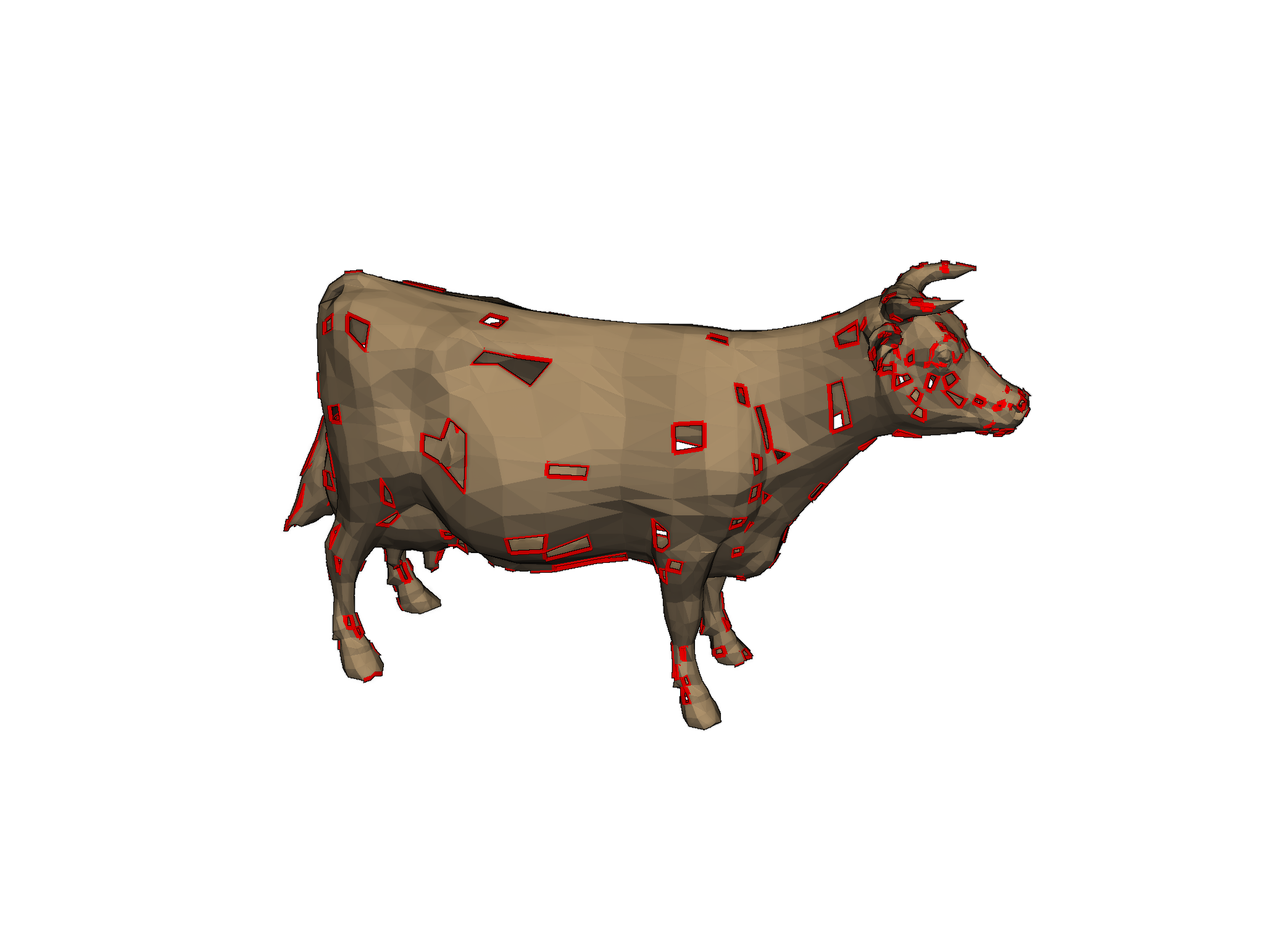
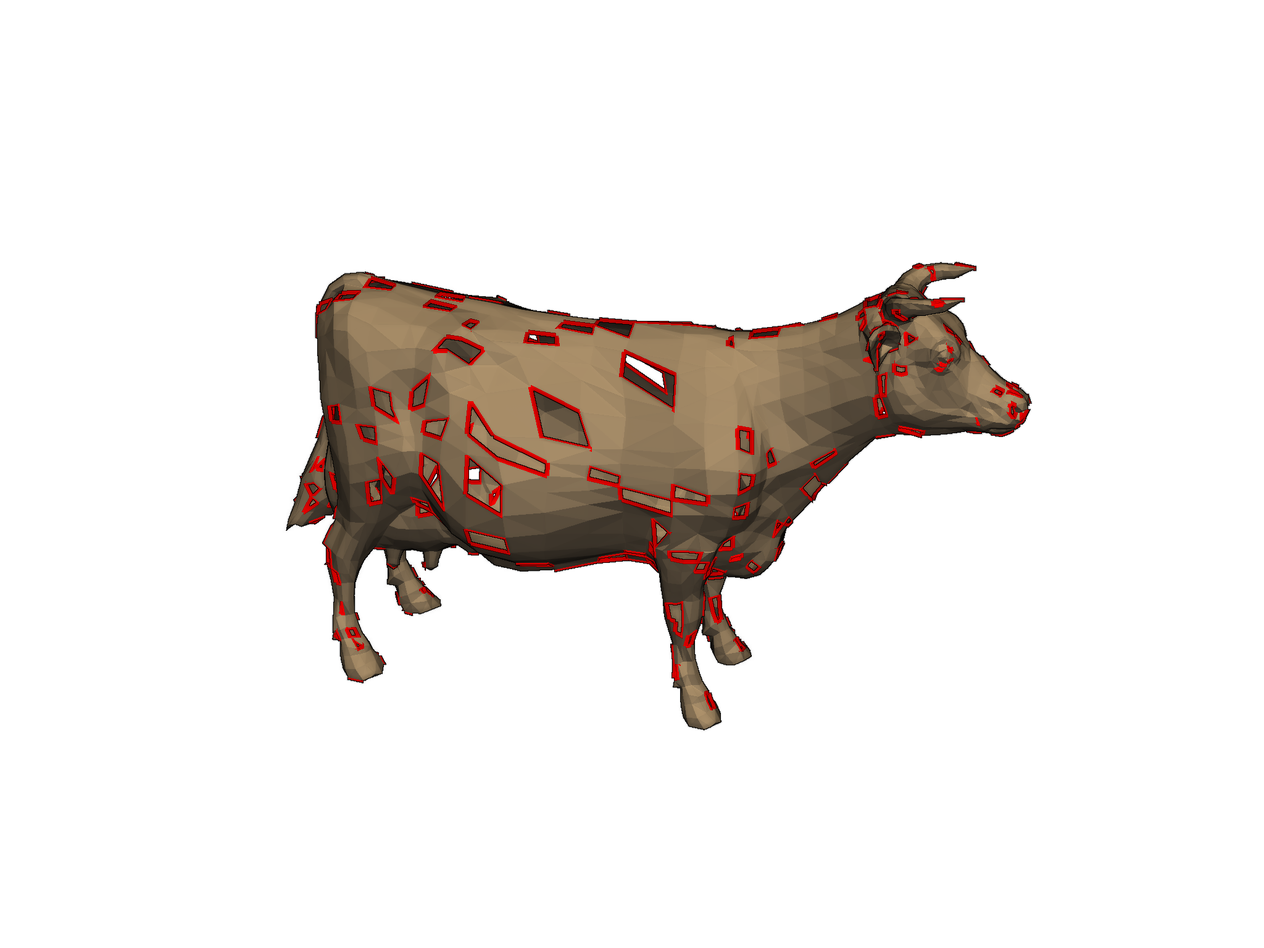
Deploying to gh-pages from @ pyvista/pymeshfix@cc835fff4e25b6cb9644abfb61d63f9dd42fe67d 🚀

diff --git a/searchindex.js b/searchindex.js
@@ -1,1 +1,1 @@
-Search.setIndex({docnames:["_autosummary/_autosummary/pymeshfix.MeshFix.extract_holes","_autosummary/_autosummary/pymeshfix.MeshFix.faces","_autosummary/_autosummary/pymeshfix.MeshFix.load_arrays","_autosummary/_autosummary/pymeshfix.MeshFix.mesh","_autosummary/_autosummary/pymeshfix.MeshFix.plot","_autosummary/_autosummary/pymeshfix.MeshFix.points","_autosummary/_autosummary/pymeshfix.MeshFix.repair","_autosummary/_autosummary/pymeshfix.MeshFix.save","_autosummary/_autosummary/pymeshfix.PyTMesh.boundaries","_autosummary/_autosummary/pymeshfix.PyTMesh.clean","_autosummary/_autosummary/pymeshfix.PyTMesh.fill_small_boundaries","_autosummary/_autosummary/pymeshfix.PyTMesh.join_closest_components","_autosummary/_autosummary/pymeshfix.PyTMesh.load_array","_autosummary/_autosummary/pymeshfix.PyTMesh.load_file","_autosummary/_autosummary/pymeshfix.PyTMesh.n_points","_autosummary/_autosummary/pymeshfix.PyTMesh.remove_smallest_components","_autosummary/_autosummary/pymeshfix.PyTMesh.return_arrays","_autosummary/_autosummary/pymeshfix.PyTMesh.save_file","_autosummary/_autosummary/pymeshfix.PyTMesh.select_intersecting_triangles","_autosummary/pymeshfix.MeshFix","_autosummary/pymeshfix.PyTMesh","_autosummary/pymeshfix.clean_from_arrays","_autosummary/pymeshfix.clean_from_file","api","examples/bunny","examples/cow","examples/index","examples/repair_planar","examples/sg_execution_times","examples/torso","index"],envversion:{"sphinx.domains.c":2,"sphinx.domains.changeset":1,"sphinx.domains.citation":1,"sphinx.domains.cpp":3,"sphinx.domains.index":1,"sphinx.domains.javascript":2,"sphinx.domains.math":2,"sphinx.domains.python":3,"sphinx.domains.rst":2,"sphinx.domains.std":2,sphinx:56},filenames:["_autosummary/_autosummary/pymeshfix.MeshFix.extract_holes.rst","_autosummary/_autosummary/pymeshfix.MeshFix.faces.rst","_autosummary/_autosummary/pymeshfix.MeshFix.load_arrays.rst","_autosummary/_autosummary/pymeshfix.MeshFix.mesh.rst","_autosummary/_autosummary/pymeshfix.MeshFix.plot.rst","_autosummary/_autosummary/pymeshfix.MeshFix.points.rst","_autosummary/_autosummary/pymeshfix.MeshFix.repair.rst","_autosummary/_autosummary/pymeshfix.MeshFix.save.rst","_autosummary/_autosummary/pymeshfix.PyTMesh.boundaries.rst","_autosummary/_autosummary/pymeshfix.PyTMesh.clean.rst","_autosummary/_autosummary/pymeshfix.PyTMesh.fill_small_boundaries.rst","_autosummary/_autosummary/pymeshfix.PyTMesh.join_closest_components.rst","_autosummary/_autosummary/pymeshfix.PyTMesh.load_array.rst","_autosummary/_autosummary/pymeshfix.PyTMesh.load_file.rst","_autosummary/_autosummary/pymeshfix.PyTMesh.n_points.rst","_autosummary/_autosummary/pymeshfix.PyTMesh.remove_smallest_components.rst","_autosummary/_autosummary/pymeshfix.PyTMesh.return_arrays.rst","_autosummary/_autosummary/pymeshfix.PyTMesh.save_file.rst","_autosummary/_autosummary/pymeshfix.PyTMesh.select_intersecting_triangles.rst","_autosummary/pymeshfix.MeshFix.rst","_autosummary/pymeshfix.PyTMesh.rst","_autosummary/pymeshfix.clean_from_arrays.rst","_autosummary/pymeshfix.clean_from_file.rst","api.rst","examples/bunny.rst","examples/cow.rst","examples/index.rst","examples/repair_planar.rst","examples/sg_execution_times.rst","examples/torso.rst","index.rst"],objects:{"pymeshfix.MeshFix":{extract_holes:[0,1,1,""],faces:[1,1,1,""],load_arrays:[2,1,1,""],mesh:[3,2,1,""],plot:[4,1,1,""],points:[5,1,1,""],repair:[6,1,1,""],save:[7,1,1,""]},"pymeshfix.PyTMesh":{boundaries:[8,1,1,""],clean:[9,1,1,""],fill_small_boundaries:[10,1,1,""],join_closest_components:[11,1,1,""],load_array:[12,1,1,""],load_file:[13,1,1,""],n_points:[14,3,1,""],remove_smallest_components:[15,1,1,""],return_arrays:[16,1,1,""],save_file:[17,1,1,""],select_intersecting_triangles:[18,1,1,""]},pymeshfix:{MeshFix:[19,0,1,""],PyTMesh:[20,0,1,""],clean_from_arrays:[21,4,1,""],clean_from_file:[22,4,1,""]}},objnames:{"0":["py","class","Python class"],"1":["py","method","Python method"],"2":["py","property","Python property"],"3":["py","attribute","Python attribute"],"4":["py","function","Python function"]},objtypes:{"0":"py:class","1":"py:method","2":"py:property","3":"py:attribute","4":"py:function"},terms:{"0":[10,13,17,20,24,25,27,28,29],"00":[25,28],"01":29,"010":30,"015":24,"02":[28,29],"03":25,"0416":30,"05":28,"08":28,"083e":29,"0x7f6ee3a3c760":25,"0x7f6ee4de3520":25,"0x7f6ee4de3ac0":29,"1":[13,17,25,27,29,30],"10":[9,20,24,30],"100":27,"1007":30,"1053":29,"107":29,"11":29,"12":[24,29],"12015":29,"122":29,"12448":29,"1251":29,"13":[24,25,29],"15":29,"16":27,"17":29,"18":29,"180":29,"19":28,"2":[13,24,25,27,29,30],"2010":[20,30],"2020":30,"206":29,"209":25,"22":[25,29],"224":[25,28],"26":24,"2721":25,"276":29,"28":24,"2903":25,"2d":2,"3":[2,9,12,19,20,21,25,27,30],"320e":29,"35":25,"4":[25,27],"429":28,"44":25,"442e":29,"446e":25,"5":[24,25,27,29],"5186":25,"5438":25,"56":25,"6":[25,29],"618":[27,28],"624e":29,"637e":25,"680e":29,"696e":25,"701e":25,"720":[24,28],"720e":29,"73":25,"760e":25,"77":25,"8":[24,25,29],"83":29,"867":[28,29],"9":[24,25,29],"93":25,"96":29,"998e":25,"case":[18,30],"class":[19,20,23],"default":[4,6,10,18,21,22,27],"export":3,"float":17,"function":[23,26,30],"import":[13,19,20,21,22,24,25,27,29,30],"new":0,"public":[23,30],"return":[3,9,10,16,17,18,20,21,27,30],"true":[4,6,7,9,10,17,18,21,22,24,25,27,29],"while":30,A:[17,20,25,30],FOR:30,If:[10,17,20,27,30],In:30,It:27,No:30,One:30,Or:30,The:[9,12,13,17,18,20,23,26,30],There:[20,30],These:[23,27],To:30,_:27,_meshfix:[13,20,27],abov:30,absolut:29,access:[3,6,30],add:[10,25,27],add_mesh:[24,25,27,29],addit:4,aforement:9,again:[20,30],agreement:30,algorithm:27,all:[6,10,18,21,27,30],allow:30,along:[27,29],altern:30,an:[7,9,20,22],ani:30,appi:29,approach:[20,30],approxim:17,ar:[6,9,10,13,17,18,20,23,27,30],arg:19,argument:4,arrai:[2,6,12,16,18,19,20,21,25,29,30],ascii:[7,17],assum:30,attempt:[6,11,20,21,22,30],atten:[20,30],attribut:[19,20],author:30,automat:[12,13],award:30,back:27,back_approx:17,base:30,basic_tmesh:20,been:30,befor:[6,11,21],begin:[6,21],bell:30,better:30,between:17,binari:7,bool:[4,6,21,22],both:2,bound:[25,29,30],boundari:[0,4,10,20,27,30],bring:30,bunni:[26,28],c:[20,27,30],cad:30,call:9,camera:[24,25],camera_posit:[24,25,29],can:[7,30],cannot:30,cast:25,cd:30,cell:[25,29],charact:7,check:[20,30],cite:[20,30],clean:[17,19,20,21,22,30],clean_fac:21,clean_from_arrai:30,clean_from_fil:30,clean_point:21,click:[24,25,27,29],clone:30,close:30,cnr:30,coars:30,code:[24,25,27,29],coher:17,coincid:18,color:[24,25,27,29],com:30,commerci:30,common:18,commun:30,complet:9,complex:[18,29],compon:[6,11,15,20,21,22,29,30],comput:[20,30],connect:[12,13],contain:[2,12],contract:30,control:30,conveni:23,convert:27,cool:30,coordin:17,copi:30,correct:30,could:[9,30],cow:[19,26,28],cpo:[24,25,29],cpos_ear:29,creat:[19,20,30],current:13,cython:[20,23,30],d:[20,30],data:[2,17],debug:6,deduc:17,defect:30,defin:24,degener:[9,30],degeneraci:[9,24,25,29],demonstr:26,densiti:[10,27],depth:[18,24,25,27,29],design:30,detail:30,detect:27,determin:18,digit:[20,30],directli:30,disabl:6,disk:[7,22],distribut:30,doe:23,doi:30,don:30,download:[24,25,27,29],download_bunni:24,download_cow:[19,25],download_torso:29,drive:30,dtype:27,dual:30,e:30,each:[2,9],ear:29,eas:30,edg:[10,18,27],either:[19,22,27,30],element:30,emphas:29,empti:27,enabl:6,enable_eye_dome_light:[24,25,27,29],ensur:29,error:17,even:[18,30],eventu:9,exampl:[3,4,6,9,10,11,12,13,16,17,18,19,20,21,22,24,25,27,28,29],execut:28,expos:23,extens:[7,17,23],extra:27,extract:[0,24,29],extract_geometri:25,extract_hol:[24,25,27,29],eye_dome_light:29,f:[2,12,20,21,30],face:[2,6,9,12,16,18,19,21,27,30],fail:30,fals:[6,21,22,27],faster:7,fclean:[20,30],featur:30,file:[7,13,17,20,22,28],filenam:[7,17,22],filetyp:7,fill:[10,20,26,28,30],fill_small_boundari:[20,27,30],filter:29,fit:30,fix:[24,25,29],flaw:30,float64:30,follow:[7,13,17,20,26,30],format:[13,17,20,30],foundat:30,free:30,from:[2,6,7,12,13,17,19,20,21,24,25,27,29,30],ftype:7,full:[24,25,27,29],g:30,galleri:[24,25,26,27,29],ge:30,gener:[24,25,26,27,29,30],get:8,git:30,github:30,gnu:30,gpl:30,ha:30,hard:30,have:[10,27,30],help:[4,24,25,27,29],here:[24,25,27,29,30],hole:[0,10,20,24,25,26,28,29,30],holei:[26,28],holy_cow:[19,25],hope:30,how:30,http:30,idea:30,imati:[13,17,30],impli:30,includ:27,indic:[1,18,19],infer:7,infil:[20,22,30],inmesh:22,inner:[10,27],inner_loop:[9,20,30],inplac:6,input:[22,30],instanc:20,int32:30,interfac:[20,27],intersect:[9,18,20,24,25,29,30],inventor:13,invert:25,ipynb:[24,25,27,29],isol:[6,21],iter:9,iv:[13,17],join:[6,11,20,21,22,30],join_closest_compon:[20,30],joincomp:[6,21,22],jul:30,jupyt:[24,25,27,29],justprop:18,keep:18,keyword:4,kwarg:4,largest:[6,21,27],last:30,later:30,left:30,less:10,level:[23,27],leverag:30,librari:30,licens:30,lightweight:[20,30],limit:[17,27],line:0,line_width:[24,25,27,29],ll:30,load:[2,12,13,20,21,30],load_arrai:[20,30],load_fil:27,loader:[12,13],loadfil:[13,20,30],locat:25,loop:8,lower:[23,27],m:[20,30],mai:[7,30],main:30,manifold:[12,13,22],marco:[20,30],max_it:[9,20,30],mb:28,memori:[17,30],merchant:30,mesh:[0,1,2,4,5,6,7,8,9,11,12,13,14,16,17,18,19,20,21,22,24,25,27,29,30],meshfix:[20,23,24,25,27,29,30],method:[7,9,19,20,23],mf:[19,24,25,29],mfix:[4,27],might:30,minut:[24,25,27,29],miss:30,model:30,modifi:30,modul:30,more:30,most:[18,27],much:7,must:[22,30],my_mesh:3,n:[2,12,19,21,25,29],n_cell:25,nativ:30,nbe:[10,27],ndarrai:[2,12,16,18,19,21],nearbi:[6,11,20,21,22,30],necessari:[17,30],need:29,nice:25,non:17,note:[6,7,27],notebook:[24,25,27,29],np:[2,12,19,21,25,27,30],npy:21,number:[8,10,14,18,27],numpi:[2,12,16,18,20,21,25,27,30],obj:13,object:[13,17,19,20,27,30],occur:17,occurr:30,off:[13,17,22],one:[7,17],onli:[9,27],open:[6,11,13,21,22],openinventor:17,option:[4,6,7,21,22,30],org:30,orig_mesh:27,origin:27,other:[18,30],out:[24,25,27,29,30],outfil:[17,20,22,30],outlin:[24,25,27,29],outmesh:22,output:[20,22,27,30],over:30,overridden:7,p:[24,25,29],paper:[20,30],paramet:[2,4,6,7,9,12,18,19,21,22],part:[18,29,30],partial:[26,28],particular:30,patch:[10,24,25,27,29],percept:[24,25,27,29],perform:[6,21,22,30],perfrom:29,pip:30,planar:27,planar_mesh:27,pleas:[20,30],plot:[3,24,25,27,29,30],plot_boundari:27,plotter:[24,25,27,29],ply:[3,7,13,17,22,30],point:[2,6,12,14,16,17,19,21,25,27,29],polydata:[19,25,27,29],polygon:[20,30],polyhedr:29,polyhedron:30,portabl:30,posit:24,precis:17,present:30,print:[6,20,21,22,25,29,30],procedur:[21,22],process:[6,21],produc:[9,30],program:30,progress:[21,22],proper:30,properti:3,publish:30,pure:23,purpos:[20,30],pv:[24,25,27,29],py:[24,25,27,28,29],pymeshfix:[24,25,27,29],pypi:30,python:[23,24,25,27,29,30],pytmesh:[23,27,30],pyvista:[0,4,7,19,22,23,24,25,26,27,29,30],r:[24,25,27,29],rand:25,random:25,raw:30,reach:30,read:[22,27,30],readi:24,reason:30,reconstruct:[12,13],recurs:18,redistribut:30,refer:30,refin:[10,27],reflect:17,regard:18,region:30,remov:[6,9,15,20,21,27,29,30],remove_smallest_compon:[6,21],render:[24,25,27],repair:[11,20,21,22,24,25,27,29,30],repair_planar:[27,28],repres:30,represent:17,reproduc:[10,27],requir:[23,30],research:[20,30],reserv:30,reson:18,result:[25,30],return_arrai:[20,27,30],right:30,run:[11,24,25,27,29,30],s00371:30,s:[6,7,27,30],safe:18,same:30,sampl:[10,27],save:[3,17,30],save_fil:[20,30],script:[24,25,27,29],second:[24,25,27,29],see:[4,30],seem:27,select:18,self:[9,20,30],set:[17,30],shape:27,should:[2,11,17,30],show:[4,24,25,27,29],show_edg:29,show_hol:4,simpl:7,simpli:29,singl:[22,27,30],singular:30,size:12,small:[10,29],smallest:15,so:29,softwar:30,solid:30,some:[27,30],sort:30,sourc:[24,25,27,29,30],space:18,specif:30,specifi:7,speed:30,sphinx:[24,25,26,27,29],sphinx_gallery_thumbnail_numb:[24,25,27,29],springer:[20,30],stdout:[21,22],still:30,stl:[7,13,22],str:[7,22],string:7,strongdegeneracyremov:9,strongintersectionremov:9,subdivis:18,subsimplex:18,subtl:29,support:13,surfac:[3,7,19,30],surround:[10,27],t:30,take:30,term:30,tessel:30,test:30,tetrahedr:19,than:[7,10],thei:[18,30],them:[6,9],therefor:30,therein:30,thi:[0,7,17,27,29,30],threchold:18,three:[2,7],threshold:25,thu:30,tight:29,time:[9,24,25,27,29],tin:[9,10,11,12,13,16,17,18,20,30],tmesh:[20,27,30],torso:[26,28],total:[24,25,27,28,29],tri:[13,17],triangl:[8,12,13,18,19,27,29,30],triangul:[25,29],triangular:2,tris_per_cel:18,two:[9,23],txt:30,type:[7,18],typic:30,unavail:30,under:[18,30],underli:3,understand:30,unless:7,unmodifi:30,unproperli:18,up:9,updat:[6,30],us:[6,9,17,18,19,20,22,23,26,27,30],user:30,v2:20,v:[2,12,20,21,30],valu:[17,18],vclean:[20,30],ver:[13,17],verbos:[6,21,22,24,25,27,29],version:30,vert:27,vertex:[2,6,16,17,19,21,30],vertic:[10,12,18,21,27],vertici:12,view:30,visual:[20,30],vrml:[13,17],vtk:[7,22,27],vtkinterfac:30,wa:29,want:30,warranti:30,water:29,watertight:30,when:17,where:[29,30],wherebi:27,which:23,whistl:30,win:30,wish:30,with_vtk:30,within:30,without:[9,22,23],wonder:30,work:30,wrapper:[7,30],write:[7,22,30],written:7,wrl:[13,17],www:30,x:[2,12,19,21,25,29],xyz:2,y:[25,29],you:30,your:30,z:[25,29],zero:17},titles:["pymeshfix.MeshFix.extract_holes","pymeshfix.MeshFix.faces","pymeshfix.MeshFix.load_arrays","pymeshfix.MeshFix.mesh","pymeshfix.MeshFix.plot","pymeshfix.MeshFix.points","pymeshfix.MeshFix.repair","pymeshfix.MeshFix.save","pymeshfix.PyTMesh.boundaries","pymeshfix.PyTMesh.clean","pymeshfix.PyTMesh.fill_small_boundaries","pymeshfix.PyTMesh.join_closest_components","pymeshfix.PyTMesh.load_array","pymeshfix.PyTMesh.load_file","pymeshfix.PyTMesh.n_points","pymeshfix.PyTMesh.remove_smallest_components","pymeshfix.PyTMesh.return_arrays","pymeshfix.PyTMesh.save_file","pymeshfix.PyTMesh.select_intersecting_triangles","pymeshfix.MeshFix","pymeshfix.PyTMesh","pymeshfix.clean_from_arrays","pymeshfix.clean_from_file","API Reference","Bunny","Holey Cow","pymeshfix Examples","Partial Fill Holes","Computation times","Torso","PyMeshFix"],titleterms:{algorithm:30,api:23,boundari:8,bunni:24,citat:30,clean:9,clean_from_arrai:21,clean_from_fil:22,complet:30,comput:28,copyright:30,cow:25,depend:30,easi:30,exampl:[26,30],extract_hol:0,face:1,fill:27,fill_small_boundari:10,hole:27,holei:25,instal:30,join_closest_compon:11,load_arrai:[2,12],load_fil:13,mesh:3,meshfix:[0,1,2,3,4,5,6,7,19],n_point:14,partial:27,plot:4,point:5,polici:30,pymeshfix:[0,1,2,3,4,5,6,7,8,9,10,11,12,13,14,15,16,17,18,19,20,21,22,26,30],pytmesh:[8,9,10,11,12,13,14,15,16,17,18,20],refer:23,remove_smallest_compon:15,repair:6,return_arrai:16,save:7,save_fil:17,select_intersecting_triangl:18,time:28,torso:29,vtk:30,without:30}})
+Search.setIndex({docnames:["_autosummary/_autosummary/pymeshfix.MeshFix.extract_holes","_autosummary/_autosummary/pymeshfix.MeshFix.faces","_autosummary/_autosummary/pymeshfix.MeshFix.load_arrays","_autosummary/_autosummary/pymeshfix.MeshFix.mesh","_autosummary/_autosummary/pymeshfix.MeshFix.plot","_autosummary/_autosummary/pymeshfix.MeshFix.points","_autosummary/_autosummary/pymeshfix.MeshFix.repair","_autosummary/_autosummary/pymeshfix.MeshFix.save","_autosummary/_autosummary/pymeshfix.PyTMesh.boundaries","_autosummary/_autosummary/pymeshfix.PyTMesh.clean","_autosummary/_autosummary/pymeshfix.PyTMesh.fill_small_boundaries","_autosummary/_autosummary/pymeshfix.PyTMesh.join_closest_components","_autosummary/_autosummary/pymeshfix.PyTMesh.load_array","_autosummary/_autosummary/pymeshfix.PyTMesh.load_file","_autosummary/_autosummary/pymeshfix.PyTMesh.n_points","_autosummary/_autosummary/pymeshfix.PyTMesh.remove_smallest_components","_autosummary/_autosummary/pymeshfix.PyTMesh.return_arrays","_autosummary/_autosummary/pymeshfix.PyTMesh.save_file","_autosummary/_autosummary/pymeshfix.PyTMesh.select_intersecting_triangles","_autosummary/pymeshfix.MeshFix","_autosummary/pymeshfix.PyTMesh","_autosummary/pymeshfix.clean_from_arrays","_autosummary/pymeshfix.clean_from_file","api","examples/bunny","examples/cow","examples/index","examples/repair_planar","examples/sg_execution_times","examples/torso","index"],envversion:{"sphinx.domains.c":2,"sphinx.domains.changeset":1,"sphinx.domains.citation":1,"sphinx.domains.cpp":3,"sphinx.domains.index":1,"sphinx.domains.javascript":2,"sphinx.domains.math":2,"sphinx.domains.python":3,"sphinx.domains.rst":2,"sphinx.domains.std":2,sphinx:56},filenames:["_autosummary/_autosummary/pymeshfix.MeshFix.extract_holes.rst","_autosummary/_autosummary/pymeshfix.MeshFix.faces.rst","_autosummary/_autosummary/pymeshfix.MeshFix.load_arrays.rst","_autosummary/_autosummary/pymeshfix.MeshFix.mesh.rst","_autosummary/_autosummary/pymeshfix.MeshFix.plot.rst","_autosummary/_autosummary/pymeshfix.MeshFix.points.rst","_autosummary/_autosummary/pymeshfix.MeshFix.repair.rst","_autosummary/_autosummary/pymeshfix.MeshFix.save.rst","_autosummary/_autosummary/pymeshfix.PyTMesh.boundaries.rst","_autosummary/_autosummary/pymeshfix.PyTMesh.clean.rst","_autosummary/_autosummary/pymeshfix.PyTMesh.fill_small_boundaries.rst","_autosummary/_autosummary/pymeshfix.PyTMesh.join_closest_components.rst","_autosummary/_autosummary/pymeshfix.PyTMesh.load_array.rst","_autosummary/_autosummary/pymeshfix.PyTMesh.load_file.rst","_autosummary/_autosummary/pymeshfix.PyTMesh.n_points.rst","_autosummary/_autosummary/pymeshfix.PyTMesh.remove_smallest_components.rst","_autosummary/_autosummary/pymeshfix.PyTMesh.return_arrays.rst","_autosummary/_autosummary/pymeshfix.PyTMesh.save_file.rst","_autosummary/_autosummary/pymeshfix.PyTMesh.select_intersecting_triangles.rst","_autosummary/pymeshfix.MeshFix.rst","_autosummary/pymeshfix.PyTMesh.rst","_autosummary/pymeshfix.clean_from_arrays.rst","_autosummary/pymeshfix.clean_from_file.rst","api.rst","examples/bunny.rst","examples/cow.rst","examples/index.rst","examples/repair_planar.rst","examples/sg_execution_times.rst","examples/torso.rst","index.rst"],objects:{"pymeshfix.MeshFix":{extract_holes:[0,1,1,""],faces:[1,1,1,""],load_arrays:[2,1,1,""],mesh:[3,2,1,""],plot:[4,1,1,""],points:[5,1,1,""],repair:[6,1,1,""],save:[7,1,1,""]},"pymeshfix.PyTMesh":{boundaries:[8,1,1,""],clean:[9,1,1,""],fill_small_boundaries:[10,1,1,""],join_closest_components:[11,1,1,""],load_array:[12,1,1,""],load_file:[13,1,1,""],n_points:[14,3,1,""],remove_smallest_components:[15,1,1,""],return_arrays:[16,1,1,""],save_file:[17,1,1,""],select_intersecting_triangles:[18,1,1,""]},pymeshfix:{MeshFix:[19,0,1,""],PyTMesh:[20,0,1,""],clean_from_arrays:[21,4,1,""],clean_from_file:[22,4,1,""]}},objnames:{"0":["py","class","Python class"],"1":["py","method","Python method"],"2":["py","property","Python property"],"3":["py","attribute","Python attribute"],"4":["py","function","Python function"]},objtypes:{"0":"py:class","1":"py:method","2":"py:property","3":"py:attribute","4":"py:function"},terms:{"0":[10,13,17,20,24,25,27,28,29],"00":[25,28],"01":29,"010":30,"015":24,"02":[28,29],"03":25,"0416":30,"05":28,"083e":29,"0x7f39f6e597c0":25,"0x7f39f81ff580":25,"0x7f39f81ff700":29,"1":[13,17,25,27,29,30],"10":[9,20,24,30],"100":27,"1007":30,"1053":29,"107":29,"11":29,"116":[25,28],"12":[24,29],"12015":29,"122":29,"12448":29,"1251":29,"13":[24,25,29],"15":[28,29],"16":27,"17":29,"18":29,"180":29,"2":[13,24,25,27,29,30],"200":25,"2010":[20,30],"2020":30,"206":29,"22":[25,29],"26":24,"2727":25,"276":29,"28":24,"2903":25,"2d":2,"3":[2,9,12,19,20,21,25,27,30],"320e":29,"35":25,"4":[25,27],"421":[28,29],"44":25,"442e":29,"446e":25,"499":[27,28],"5":[24,25,27,29],"5209":25,"5450":25,"56":25,"583":[24,28],"6":[25,29],"619":28,"624e":29,"637e":25,"680e":29,"696e":25,"701e":25,"720e":29,"73":25,"760e":25,"77":25,"8":[24,25,29],"83":29,"9":[24,25,29],"93":25,"96":29,"998e":25,"case":[18,30],"class":[19,20,23],"default":[4,6,10,18,21,22,27],"export":3,"float":17,"function":[23,26,30],"import":[13,19,20,21,22,24,25,27,29,30],"new":0,"public":[23,30],"return":[3,9,10,16,17,18,20,21,27,30],"true":[4,6,7,9,10,17,18,21,22,24,25,27,29],"while":30,A:[17,20,25,30],FOR:30,If:[10,17,20,27,30],In:30,It:27,No:30,One:30,Or:30,The:[9,12,13,17,18,20,23,26,30],There:[20,30],These:[23,27],To:30,_:27,_meshfix:[13,20,27],abov:30,absolut:29,access:[3,6,30],add:[10,25,27],add_mesh:[24,25,27,29],addit:4,aforement:9,again:[20,30],agreement:30,algorithm:27,all:[6,10,18,21,27,30],allow:30,along:[27,29],altern:30,an:[7,9,20,22],ani:30,appi:29,approach:[20,30],approxim:17,ar:[6,9,10,13,17,18,20,23,27,30],arg:19,argument:4,arrai:[2,6,12,16,18,19,20,21,25,29,30],ascii:[7,17],assum:30,attempt:[6,11,20,21,22,30],atten:[20,30],attribut:[19,20],author:30,automat:[12,13],award:30,back:27,back_approx:17,base:30,basic_tmesh:20,been:30,befor:[6,11,21],begin:[6,21],bell:30,better:30,between:17,binari:7,bool:[4,6,21,22],both:2,bound:[25,29,30],boundari:[0,4,10,20,27,30],bring:30,bunni:[26,28],c:[20,27,30],cad:30,call:9,camera:[24,25],camera_posit:[24,25,29],can:[7,30],cannot:30,cast:25,cd:30,cell:[25,29],charact:7,check:[20,30],cite:[20,30],clean:[17,19,20,21,22,30],clean_fac:21,clean_from_arrai:30,clean_from_fil:30,clean_point:21,click:[24,25,27,29],clone:30,close:30,cnr:30,coars:30,code:[24,25,27,29],coher:17,coincid:18,color:[24,25,27,29],com:30,commerci:30,common:18,commun:30,complet:9,complex:[18,29],compon:[6,11,15,20,21,22,25,29,30],comput:[20,30],connect:[12,13],contain:[2,12],contract:30,control:30,conveni:23,convert:27,cool:30,coordin:17,copi:30,correct:30,could:[9,30],cow:[19,26,28],cpo:[24,25,29],cpos_ear:29,creat:[19,20,30],current:13,cython:[20,23,30],d:[20,30],data:[2,17],debug:6,deduc:17,defect:30,defin:24,degener:[9,30],degeneraci:[9,24,25,29],demonstr:26,densiti:[10,27],depth:[18,24,25,27,29],design:30,detail:30,detect:27,determin:18,digit:[20,30],directli:30,disabl:6,disk:[7,22],distribut:30,doe:23,doi:30,don:30,download:[24,25,27,29],download_bunni:24,download_cow:[19,25],download_torso:29,drive:30,dtype:27,dual:30,e:30,each:[2,9],ear:29,eas:30,edg:[10,18,27],either:[19,22,27,30],element:30,emphas:29,empti:27,enabl:6,enable_eye_dome_light:[24,25,27,29],ensur:29,error:17,even:[18,30],eventu:9,exampl:[3,4,6,9,10,11,12,13,16,17,18,19,20,21,22,24,25,27,28,29],execut:28,expos:23,extens:[7,17,23],extra:27,extract:[0,24,29],extract_geometri:25,extract_hol:[24,25,27,29],eye_dome_light:29,f:[2,12,20,21,30],face:[2,6,9,12,16,18,19,21,27,30],fail:30,fals:[6,21,22,27],faster:7,fclean:[20,30],featur:30,file:[7,13,17,20,22,28],filenam:[7,17,22],filetyp:7,fill:[10,20,26,28,30],fill_small_boundari:[20,27,30],filter:29,fit:30,fix:[24,25,29],flaw:30,float64:30,follow:[7,13,17,20,26,30],format:[13,17,20,30],foundat:30,free:30,from:[2,6,7,12,13,17,19,20,21,24,25,27,29,30],ftype:7,full:[24,25,27,29],g:30,galleri:[24,25,26,27,29],ge:30,gener:[24,25,26,27,29,30],get:8,git:30,github:30,gnu:30,gpl:30,ha:30,hard:30,have:[10,27,30],help:[4,24,25,27,29],here:[24,25,27,29,30],hole:[0,10,20,24,25,26,28,29,30],holei:[26,28],holy_cow:[19,25],hope:30,how:30,http:30,idea:30,imati:[13,17,30],impli:30,includ:27,indic:[1,18,19],infer:7,infil:[20,22,30],inmesh:22,inner:[10,27],inner_loop:[9,20,30],inplac:6,input:[22,30],instanc:20,int32:30,interfac:[20,27],intersect:[9,18,20,24,25,29,30],inventor:13,invert:25,ipynb:[24,25,27,29],isol:[6,21],iter:9,iv:[13,17],join:[6,11,20,21,22,30],join_closest_compon:[20,30],joincomp:[6,21,22],jul:30,jupyt:[24,25,27,29],justprop:18,keep:18,keyword:4,kwarg:4,largest:[6,21,27],last:30,later:30,left:30,less:10,level:[23,27],leverag:30,librari:30,licens:30,lightweight:[20,30],limit:[17,27],line:0,line_width:[24,25,27,29],ll:30,load:[2,12,13,20,21,30],load_arrai:[20,30],load_fil:27,loader:[12,13],loadfil:[13,20,30],locat:25,loop:8,lower:[23,27],m:[20,30],mai:[7,30],main:30,manifold:[12,13,22],marco:[20,30],max_it:[9,20,30],mb:28,memori:[17,30],merchant:30,mesh:[0,1,2,4,5,6,7,8,9,11,12,13,14,16,17,18,19,20,21,22,24,25,27,29,30],meshfix:[20,23,24,25,27,29,30],method:[7,9,19,20,23],mf:[19,24,25,29],mfix:[4,27],might:30,minut:[24,25,27,29],miss:30,model:30,modifi:30,modul:30,more:30,most:[18,27],much:7,must:[22,30],my_mesh:3,n:[2,12,19,21,25,29],n_cell:25,nativ:30,nbe:[10,27],ndarrai:[2,12,16,18,19,21],nearbi:[6,11,20,21,22,30],necessari:[17,30],need:29,nice:25,non:17,note:[6,7,27],notebook:[24,25,27,29],np:[2,12,19,21,25,27,30],npy:21,number:[8,10,14,18,27],numpi:[2,12,16,18,20,21,25,27,30],obj:13,object:[13,17,19,20,27,30],occur:17,occurr:30,off:[13,17,22],one:[7,17],onli:[9,27],open:[6,11,13,21,22],openinventor:17,option:[4,6,7,21,22,30],org:30,orig_mesh:27,origin:27,other:[18,30],out:[24,25,27,29,30],outfil:[17,20,22,30],outlin:[24,25,27,29],outmesh:22,output:[20,22,27,30],over:30,overridden:7,p:[24,25,29],paper:[20,30],paramet:[2,4,6,7,9,12,18,19,21,22],part:[18,29,30],partial:[26,28],particular:30,patch:[10,24,25,27,29],percept:[24,25,27,29],perform:[6,21,22,30],perfrom:29,pip:30,planar:27,planar_mesh:27,pleas:[20,30],plot:[3,24,25,27,29,30],plot_boundari:27,plotter:[24,25,27,29],ply:[3,7,13,17,22,30],point:[2,6,12,14,16,17,19,21,25,27,29],polydata:[19,25,27,29],polygon:[20,30],polyhedr:29,polyhedron:30,portabl:30,posit:24,precis:17,present:30,print:[6,20,21,22,25,29,30],procedur:[21,22],process:[6,21],produc:[9,30],program:30,progress:[21,22],proper:30,properti:3,publish:30,pure:23,purpos:[20,30],pv:[24,25,27,29],py:[24,25,27,28,29],pymeshfix:[24,25,27,29],pypi:30,python:[23,24,25,27,29,30],pytmesh:[23,27,30],pyvista:[0,4,7,19,22,23,24,25,26,27,29,30],r:[24,25,27,29],rand:25,random:25,raw:30,reach:30,read:[22,27,30],readi:24,reason:30,reconstruct:[12,13],recurs:18,redistribut:30,refer:30,refin:[10,27],reflect:17,regard:18,region:30,remov:[6,9,15,20,21,25,27,29,30],remove_smallest_compon:[6,21],render:[24,25,27],repair:[11,20,21,22,24,25,27,29,30],repair_planar:[27,28],repres:30,represent:17,reproduc:[10,27],requir:[23,30],research:[20,30],reserv:30,reson:18,result:[25,30],return_arrai:[20,27,30],right:30,run:[11,24,25,27,29,30],s00371:30,s:[6,7,27,30],safe:18,same:30,sampl:[10,27],save:[3,17,30],save_fil:[20,30],script:[24,25,27,29],second:[24,25,27,29],see:[4,30],seem:27,select:18,self:[9,20,30],set:[17,30],shape:27,should:[2,11,17,30],show:[4,24,25,27,29],show_edg:29,show_hol:4,simpl:7,simpli:29,singl:[22,27,30],singular:30,size:12,small:[10,25,29],smallest:15,so:29,softwar:30,solid:30,some:[27,30],sort:30,sourc:[24,25,27,29,30],space:18,specif:30,specifi:7,speed:30,sphinx:[24,25,26,27,29],sphinx_gallery_thumbnail_numb:[24,25,27,29],springer:[20,30],stdout:[21,22],still:30,stl:[7,13,22],str:[7,22],string:7,strongdegeneracyremov:9,strongintersectionremov:9,subdivis:18,subsimplex:18,subtl:29,support:13,surfac:[3,7,19,30],surround:[10,27],t:30,take:30,term:30,tessel:30,test:30,tetrahedr:19,than:[7,10],thei:[18,30],them:[6,9],therefor:30,therein:30,thi:[0,7,17,27,29,30],threchold:18,three:[2,7],threshold:25,thu:30,tight:29,time:[9,24,25,27,29],tin:[9,10,11,12,13,16,17,18,20,30],tmesh:[20,27,30],torso:[26,28],total:[24,25,27,28,29],tri:[13,17],triangl:[8,12,13,18,19,27,29,30],triangul:[25,29],triangular:2,tris_per_cel:18,two:[9,23],txt:30,type:[7,18],typic:30,unavail:30,under:[18,30],underli:3,understand:30,unless:7,unmodifi:30,unproperli:18,up:9,updat:[6,30],us:[6,9,17,18,19,20,22,23,26,27,30],user:30,v2:20,v:[2,12,20,21,30],valu:[17,18],vclean:[20,30],ver:[13,17],verbos:[6,21,22,24,25,27,29],version:30,vert:27,vertex:[2,6,16,17,19,21,30],vertic:[10,12,18,21,27],vertici:12,view:30,visual:[20,30],vrml:[13,17],vtk:[7,22,27],vtkinterfac:30,wa:29,want:30,warranti:30,water:29,watertight:30,when:17,where:[29,30],wherebi:27,which:23,whistl:30,win:30,wish:30,with_vtk:30,within:30,without:[9,22,23],wonder:30,work:30,wrapper:[7,30],write:[7,22,30],written:7,wrl:[13,17],www:30,x:[2,12,19,21,25,29],xyz:2,y:[25,29],you:30,your:30,z:[25,29],zero:17},titles:["pymeshfix.MeshFix.extract_holes","pymeshfix.MeshFix.faces","pymeshfix.MeshFix.load_arrays","pymeshfix.MeshFix.mesh","pymeshfix.MeshFix.plot","pymeshfix.MeshFix.points","pymeshfix.MeshFix.repair","pymeshfix.MeshFix.save","pymeshfix.PyTMesh.boundaries","pymeshfix.PyTMesh.clean","pymeshfix.PyTMesh.fill_small_boundaries","pymeshfix.PyTMesh.join_closest_components","pymeshfix.PyTMesh.load_array","pymeshfix.PyTMesh.load_file","pymeshfix.PyTMesh.n_points","pymeshfix.PyTMesh.remove_smallest_components","pymeshfix.PyTMesh.return_arrays","pymeshfix.PyTMesh.save_file","pymeshfix.PyTMesh.select_intersecting_triangles","pymeshfix.MeshFix","pymeshfix.PyTMesh","pymeshfix.clean_from_arrays","pymeshfix.clean_from_file","API Reference","Bunny","Holey Cow","pymeshfix Examples","Partial Fill Holes","Computation times","Torso","PyMeshFix"],titleterms:{algorithm:30,api:23,boundari:8,bunni:24,citat:30,clean:9,clean_from_arrai:21,clean_from_fil:22,complet:30,comput:28,copyright:30,cow:25,depend:30,easi:30,exampl:[26,30],extract_hol:0,face:1,fill:27,fill_small_boundari:10,hole:27,holei:25,instal:30,join_closest_compon:11,load_arrai:[2,12],load_fil:13,mesh:3,meshfix:[0,1,2,3,4,5,6,7,19],n_point:14,partial:27,plot:4,point:5,polici:30,pymeshfix:[0,1,2,3,4,5,6,7,8,9,10,11,12,13,14,15,16,17,18,19,20,21,22,26,30],pytmesh:[8,9,10,11,12,13,14,15,16,17,18,20],refer:23,remove_smallest_compon:15,repair:6,return_arrai:16,save:7,save_fil:17,select_intersecting_triangl:18,time:28,torso:29,vtk:30,without:30}})

diff --git a/examples/cow.html b/examples/cow.html
@@ -6,7 +6,7 @@
     <meta charset="utf-8" />
     <meta name="viewport" content="width=device-width, initial-scale=1.0" /><meta name="generator" content="Docutils 0.17.1: http://docutils.sourceforge.net/" />
 
-    <title>Holey Cow &#8212; pymeshfix 0.16.dev0 documentation</title>
+    <title>Holey Cow &#8212; pymeshfix 0.16.0 documentation</title>
     
   <!-- Loaded before other Sphinx assets -->
   <link href="../_static/styles/theme.css?digest=1999514e3f237ded88cf" rel="stylesheet">
@@ -218,8 +218,8 @@ to download the full example code</p>
 </pre></div>
 </div>
 <p class="sphx-glr-script-out">Out:</p>
-<div class="sphx-glr-script-out highlight-none notranslate"><div class="highlight"><pre><span></span>PolyData (0x7f6ee4de3520)
-  N Cells:      5186
+<div class="sphx-glr-script-out highlight-none notranslate"><div class="highlight"><pre><span></span>PolyData (0x7f39f81ff580)
+  N Cells:      5209
   N Points:     2903
   X Bounds:     -4.446e+00, 5.998e+00
   Y Bounds:     -3.637e+00, 2.760e+00
@@ -249,8 +249,9 @@ to download the full example code</p>
 </pre></div>
 </div>
 <p class="sphx-glr-script-out">Out:</p>
-<div class="sphx-glr-script-out highlight-none notranslate"><div class="highlight"><pre><span></span>Patching holes...
-Patched 209 holes
+<div class="sphx-glr-script-out highlight-none notranslate"><div class="highlight"><pre><span></span>Removed 2 small components
+Patching holes...
+Patched 200 holes
 Fixing degeneracies and intersections
 </pre></div>
 </div>
@@ -260,9 +261,9 @@ Fixing degeneracies and intersections
 </pre></div>
 </div>
 <p class="sphx-glr-script-out">Out:</p>
-<div class="sphx-glr-script-out highlight-none notranslate"><div class="highlight"><pre><span></span>PolyData (0x7f6ee3a3c760)
-  N Cells:      5438
-  N Points:     2721
+<div class="sphx-glr-script-out highlight-none notranslate"><div class="highlight"><pre><span></span>PolyData (0x7f39f6e597c0)
+  N Cells:      5450
+  N Points:     2727
   X Bounds:     -3.696e+00, 5.998e+00
   Y Bounds:     -3.637e+00, 2.760e+00
   Z Bounds:     -1.701e+00, 1.701e+00
@@ -272,7 +273,7 @@ Fixing degeneracies and intersections
 <div class="highlight-default notranslate"><div class="highlight"><pre><span></span><span class="n">repaired</span><span class="o">.</span><span class="n">plot</span><span class="p">(</span><span class="n">cpos</span><span class="o">=</span><span class="n">cpos</span><span class="p">)</span>
 </pre></div>
 </div>
-<img src="../_images/sphx_glr_cow_002.png" srcset="../_images/sphx_glr_cow_002.png" alt="cow" class = "sphx-glr-single-img"/><p class="sphx-glr-timing"><strong>Total running time of the script:</strong> ( 0 minutes  2.224 seconds)</p>
+<img src="../_images/sphx_glr_cow_002.png" srcset="../_images/sphx_glr_cow_002.png" alt="cow" class = "sphx-glr-single-img"/><p class="sphx-glr-timing"><strong>Total running time of the script:</strong> ( 0 minutes  2.116 seconds)</p>
 <div class="sphx-glr-footer class sphx-glr-footer-example docutils container" id="sphx-glr-download-examples-cow-py">
 <div class="sphx-glr-download sphx-glr-download-python docutils container">
 <p><a class="reference download internal" download="" href="../_downloads/571b56e4f032d3d1ce8260347be71ecd/cow.py"><code class="xref download docutils literal notranslate"><span class="pre">Download</span> <span class="pre">Python</span> <span class="pre">source</span> <span class="pre">code:</span> <span class="pre">cow.py</span></code></a></p>

diff --git a/examples/torso.html b/examples/torso.html
@@ -6,7 +6,7 @@
     <meta charset="utf-8" />
     <meta name="viewport" content="width=device-width, initial-scale=1.0" /><meta name="generator" content="Docutils 0.17.1: http://docutils.sourceforge.net/" />
 
-    <title>Torso &#8212; pymeshfix 0.16.dev0 documentation</title>
+    <title>Torso &#8212; pymeshfix 0.16.0 documentation</title>
     
   <!-- Loaded before other Sphinx assets -->
   <link href="../_static/styles/theme.css?digest=1999514e3f237ded88cf" rel="stylesheet">
@@ -214,7 +214,7 @@ parts of the mesh</p>
 </pre></div>
 </div>
 <p class="sphx-glr-script-out">Out:</p>
-<div class="sphx-glr-script-out highlight-none notranslate"><div class="highlight"><pre><span></span>PolyData (0x7f6ee4de3ac0)
+<div class="sphx-glr-script-out highlight-none notranslate"><div class="highlight"><pre><span></span>PolyData (0x7f39f81ff700)
   N Cells:      12448
   N Points:     12015
   X Bounds:     -1.680e+02, 1.720e+02
@@ -273,7 +273,7 @@ Fixing degeneracies and intersections
 <div class="highlight-default notranslate"><div class="highlight"><pre><span></span><span class="n">meshfix</span><span class="o">.</span><span class="n">mesh</span><span class="o">.</span><span class="n">plot</span><span class="p">(</span><span class="n">cpos</span><span class="o">=</span><span class="n">cpos</span><span class="p">,</span> <span class="n">eye_dome_lighting</span><span class="o">=</span><span class="kc">True</span><span class="p">)</span>
 </pre></div>
 </div>
-<img src="../_images/sphx_glr_torso_004.png" srcset="../_images/sphx_glr_torso_004.png" alt="torso" class = "sphx-glr-single-img"/><p class="sphx-glr-timing"><strong>Total running time of the script:</strong> ( 0 minutes  5.867 seconds)</p>
+<img src="../_images/sphx_glr_torso_004.png" srcset="../_images/sphx_glr_torso_004.png" alt="torso" class = "sphx-glr-single-img"/><p class="sphx-glr-timing"><strong>Total running time of the script:</strong> ( 0 minutes  5.421 seconds)</p>
 <div class="sphx-glr-footer class sphx-glr-footer-example docutils container" id="sphx-glr-download-examples-torso-py">
 <div class="sphx-glr-download sphx-glr-download-python docutils container">
 <p><a class="reference download internal" download="" href="../_downloads/0c5e3f7fb0853b3a7f119ade3fddd8de/torso.py"><code class="xref download docutils literal notranslate"><span class="pre">Download</span> <span class="pre">Python</span> <span class="pre">source</span> <span class="pre">code:</span> <span class="pre">torso.py</span></code></a></p>

diff --git a/examples/sg_execution_times.html b/examples/sg_execution_times.html
@@ -6,7 +6,7 @@
     <meta charset="utf-8" />
     <meta name="viewport" content="width=device-width, initial-scale=1.0" /><meta name="generator" content="Docutils 0.17.1: http://docutils.sourceforge.net/" />
 
-    <title>Computation times &#8212; pymeshfix 0.16.dev0 documentation</title>
+    <title>Computation times &#8212; pymeshfix 0.16.0 documentation</title>
     
   <!-- Loaded before other Sphinx assets -->
   <link href="../_static/styles/theme.css?digest=1999514e3f237ded88cf" rel="stylesheet">
@@ -166,7 +166,7 @@
                 
   <section id="computation-times">
 <span id="sphx-glr-examples-sg-execution-times"></span><h1>Computation times<a class="headerlink" href="#computation-times" title="Permalink to this headline">#</a></h1>
-<p><strong>00:19.429</strong> total execution time for <strong>examples</strong> files:</p>
+<p><strong>00:15.619</strong> total execution time for <strong>examples</strong> files:</p>
 <table class="table">
 <colgroup>
 <col style="width: 78%" />
@@ -175,19 +175,19 @@
 </colgroup>
 <tbody>
 <tr class="row-odd"><td><p><a class="reference internal" href="bunny.html#sphx-glr-examples-bunny-py"><span class="std std-ref">Bunny</span></a> (<code class="docutils literal notranslate"><span class="pre">bunny.py</span></code>)</p></td>
-<td><p>00:08.720</p></td>
+<td><p>00:05.583</p></td>
 <td><p>0.0 MB</p></td>
 </tr>
 <tr class="row-even"><td><p><a class="reference internal" href="torso.html#sphx-glr-examples-torso-py"><span class="std std-ref">Torso</span></a> (<code class="docutils literal notranslate"><span class="pre">torso.py</span></code>)</p></td>
-<td><p>00:05.867</p></td>
+<td><p>00:05.421</p></td>
 <td><p>0.0 MB</p></td>
 </tr>
 <tr class="row-odd"><td><p><a class="reference internal" href="repair_planar.html#sphx-glr-examples-repair-planar-py"><span class="std std-ref">Partial Fill Holes</span></a> (<code class="docutils literal notranslate"><span class="pre">repair_planar.py</span></code>)</p></td>
-<td><p>00:02.618</p></td>
+<td><p>00:02.499</p></td>
 <td><p>0.0 MB</p></td>
 </tr>
 <tr class="row-even"><td><p><a class="reference internal" href="cow.html#sphx-glr-examples-cow-py"><span class="std std-ref">Holey Cow</span></a> (<code class="docutils literal notranslate"><span class="pre">cow.py</span></code>)</p></td>
-<td><p>00:02.224</p></td>
+<td><p>00:02.116</p></td>
 <td><p>0.0 MB</p></td>
 </tr>
 </tbody>

diff --git a/examples/bunny.html b/examples/bunny.html
@@ -6,7 +6,7 @@
     <meta charset="utf-8" />
     <meta name="viewport" content="width=device-width, initial-scale=1.0" /><meta name="generator" content="Docutils 0.17.1: http://docutils.sourceforge.net/" />
 
-    <title>Bunny &#8212; pymeshfix 0.16.dev0 documentation</title>
+    <title>Bunny &#8212; pymeshfix 0.16.0 documentation</title>
     
   <!-- Loaded before other Sphinx assets -->
   <link href="../_static/styles/theme.css?digest=1999514e3f237ded88cf" rel="stylesheet">
@@ -247,7 +247,7 @@ Fixing degeneracies and intersections
 <div class="highlight-default notranslate"><div class="highlight"><pre><span></span><span class="n">meshfix</span><span class="o">.</span><span class="n">mesh</span><span class="o">.</span><span class="n">plot</span><span class="p">(</span><span class="n">cpos</span><span class="o">=</span><span class="n">cpos</span><span class="p">)</span>
 </pre></div>
 </div>
-<img src="../_images/sphx_glr_bunny_003.png" srcset="../_images/sphx_glr_bunny_003.png" alt="bunny" class = "sphx-glr-single-img"/><p class="sphx-glr-timing"><strong>Total running time of the script:</strong> ( 0 minutes  8.720 seconds)</p>
+<img src="../_images/sphx_glr_bunny_003.png" srcset="../_images/sphx_glr_bunny_003.png" alt="bunny" class = "sphx-glr-single-img"/><p class="sphx-glr-timing"><strong>Total running time of the script:</strong> ( 0 minutes  5.583 seconds)</p>
 <div class="sphx-glr-footer class sphx-glr-footer-example docutils container" id="sphx-glr-download-examples-bunny-py">
 <div class="sphx-glr-download sphx-glr-download-python docutils container">
 <p><a class="reference download internal" download="" href="../_downloads/19becafd148287ce3484b9870dc9330b/bunny.py"><code class="xref download docutils literal notranslate"><span class="pre">Download</span> <span class="pre">Python</span> <span class="pre">source</span> <span class="pre">code:</span> <span class="pre">bunny.py</span></code></a></p>

diff --git a/examples/repair_planar.html b/examples/repair_planar.html
@@ -6,7 +6,7 @@
     <meta charset="utf-8" />
     <meta name="viewport" content="width=device-width, initial-scale=1.0" /><meta name="generator" content="Docutils 0.17.1: http://docutils.sourceforge.net/" />
 
-    <title>Partial Fill Holes &#8212; pymeshfix 0.16.dev0 documentation</title>
+    <title>Partial Fill Holes &#8212; pymeshfix 0.16.0 documentation</title>
     
   <!-- Loaded before other Sphinx assets -->
   <link href="../_static/styles/theme.css?digest=1999514e3f237ded88cf" rel="stylesheet">
@@ -261,7 +261,7 @@ either.</p>
 <span class="n">_</span> <span class="o">=</span> <span class="n">plotter</span><span class="o">.</span><span class="n">show</span><span class="p">()</span>
 </pre></div>
 </div>
-<img src="../_images/sphx_glr_repair_planar_002.png" srcset="../_images/sphx_glr_repair_planar_002.png" alt="repair planar" class = "sphx-glr-single-img"/><p class="sphx-glr-timing"><strong>Total running time of the script:</strong> ( 0 minutes  2.618 seconds)</p>
+<img src="../_images/sphx_glr_repair_planar_002.png" srcset="../_images/sphx_glr_repair_planar_002.png" alt="repair planar" class = "sphx-glr-single-img"/><p class="sphx-glr-timing"><strong>Total running time of the script:</strong> ( 0 minutes  2.499 seconds)</p>
 <div class="sphx-glr-footer class sphx-glr-footer-example docutils container" id="sphx-glr-download-examples-repair-planar-py">
 <div class="sphx-glr-download sphx-glr-download-python docutils container">
 <p><a class="reference download internal" download="" href="../_downloads/472753a131a4fa63ac340a1600a365f8/repair_planar.py"><code class="xref download docutils literal notranslate"><span class="pre">Download</span> <span class="pre">Python</span> <span class="pre">source</span> <span class="pre">code:</span> <span class="pre">repair_planar.py</span></code></a></p>

diff --git a/_autosummary/_autosummary/pymeshfix.PyTMesh.select_intersecting_triangles.html b/_autosummary/_autosummary/pymeshfix.PyTMesh.select_intersecting_triangles.html
@@ -6,7 +6,7 @@
     <meta charset="utf-8" />
     <meta name="viewport" content="width=device-width, initial-scale=1.0" /><meta name="generator" content="Docutils 0.17.1: http://docutils.sourceforge.net/" />
 
-    <title>pymeshfix.PyTMesh.select_intersecting_triangles &#8212; pymeshfix 0.16.dev0 documentation</title>
+    <title>pymeshfix.PyTMesh.select_intersecting_triangles &#8212; pymeshfix 0.16.0 documentation</title>
     
   <!-- Loaded before other Sphinx assets -->
   <link href="../../_static/styles/theme.css?digest=1999514e3f237ded88cf" rel="stylesheet">

diff --git a/_autosummary/_autosummary/pymeshfix.PyTMesh.remove_smallest_components.html b/_autosummary/_autosummary/pymeshfix.PyTMesh.remove_smallest_components.html
@@ -6,7 +6,7 @@
     <meta charset="utf-8" />
     <meta name="viewport" content="width=device-width, initial-scale=1.0" /><meta name="generator" content="Docutils 0.17.1: http://docutils.sourceforge.net/" />
 
-    <title>pymeshfix.PyTMesh.remove_smallest_components &#8212; pymeshfix 0.16.dev0 documentation</title>
+    <title>pymeshfix.PyTMesh.remove_smallest_components &#8212; pymeshfix 0.16.0 documentation</title>
     
   <!-- Loaded before other Sphinx assets -->
   <link href="../../_static/styles/theme.css?digest=1999514e3f237ded88cf" rel="stylesheet">

diff --git a/_autosummary/_autosummary/pymeshfix.PyTMesh.join_closest_components.html b/_autosummary/_autosummary/pymeshfix.PyTMesh.join_closest_components.html
@@ -6,7 +6,7 @@
     <meta charset="utf-8" />
     <meta name="viewport" content="width=device-width, initial-scale=1.0" /><meta name="generator" content="Docutils 0.17.1: http://docutils.sourceforge.net/" />
 
-    <title>pymeshfix.PyTMesh.join_closest_components &#8212; pymeshfix 0.16.dev0 documentation</title>
+    <title>pymeshfix.PyTMesh.join_closest_components &#8212; pymeshfix 0.16.0 documentation</title>
     
   <!-- Loaded before other Sphinx assets -->
   <link href="../../_static/styles/theme.css?digest=1999514e3f237ded88cf" rel="stylesheet">

diff --git a/_autosummary/_autosummary/pymeshfix.PyTMesh.fill_small_boundaries.html b/_autosummary/_autosummary/pymeshfix.PyTMesh.fill_small_boundaries.html
@@ -6,7 +6,7 @@
     <meta charset="utf-8" />
     <meta name="viewport" content="width=device-width, initial-scale=1.0" /><meta name="generator" content="Docutils 0.17.1: http://docutils.sourceforge.net/" />
 
-    <title>pymeshfix.PyTMesh.fill_small_boundaries &#8212; pymeshfix 0.16.dev0 documentation</title>
+    <title>pymeshfix.PyTMesh.fill_small_boundaries &#8212; pymeshfix 0.16.0 documentation</title>
     
   <!-- Loaded before other Sphinx assets -->
   <link href="../../_static/styles/theme.css?digest=1999514e3f237ded88cf" rel="stylesheet">

diff --git a/_autosummary/_autosummary/pymeshfix.MeshFix.extract_holes.html b/_autosummary/_autosummary/pymeshfix.MeshFix.extract_holes.html
@@ -6,7 +6,7 @@
     <meta charset="utf-8" />
     <meta name="viewport" content="width=device-width, initial-scale=1.0" /><meta name="generator" content="Docutils 0.17.1: http://docutils.sourceforge.net/" />
 
-    <title>pymeshfix.MeshFix.extract_holes &#8212; pymeshfix 0.16.dev0 documentation</title>
+    <title>pymeshfix.MeshFix.extract_holes &#8212; pymeshfix 0.16.0 documentation</title>
     
   <!-- Loaded before other Sphinx assets -->
   <link href="../../_static/styles/theme.css?digest=1999514e3f237ded88cf" rel="stylesheet">

diff --git a/_autosummary/_autosummary/pymeshfix.PyTMesh.return_arrays.html b/_autosummary/_autosummary/pymeshfix.PyTMesh.return_arrays.html
@@ -6,7 +6,7 @@
     <meta charset="utf-8" />
     <meta name="viewport" content="width=device-width, initial-scale=1.0" /><meta name="generator" content="Docutils 0.17.1: http://docutils.sourceforge.net/" />
 
-    <title>pymeshfix.PyTMesh.return_arrays &#8212; pymeshfix 0.16.dev0 documentation</title>
+    <title>pymeshfix.PyTMesh.return_arrays &#8212; pymeshfix 0.16.0 documentation</title>
     
   <!-- Loaded before other Sphinx assets -->
   <link href="../../_static/styles/theme.css?digest=1999514e3f237ded88cf" rel="stylesheet">
